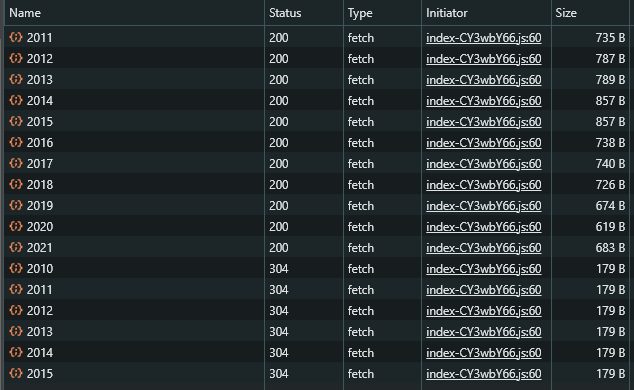
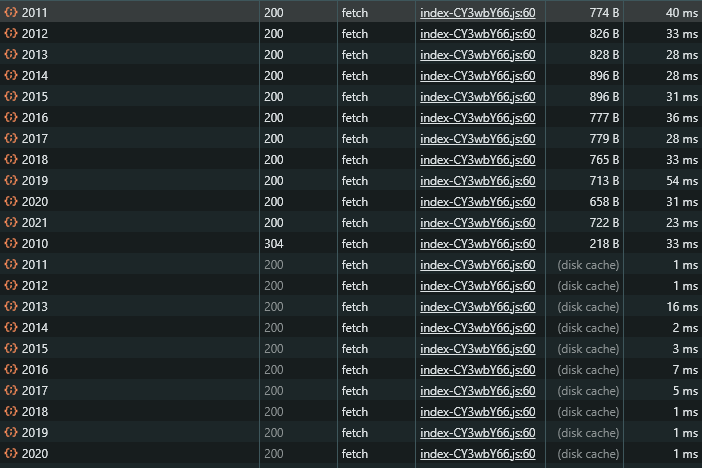
change photo

Changed region(s): [[0.0, 0.0, 1.0, 1.0]]

diff --git a/Performance.md b/Performance.md
@@ -42,7 +42,7 @@ Finally, to minimize the time for the client from sending a request for data to 
 ```js
 res.set('Cache-Control', 'public, max-age=604800');
 ```
-The server now will cache the data for 1 week, and when another request comes in, it will just send back a 304 if the cache hasn't expired, which will reduce the size of the payload
+The browser will now cache this data for a week and will not make a request to the server on subsequent GET /
 ![img](images/networkrequest.png)
 
 ## Summary of changes
